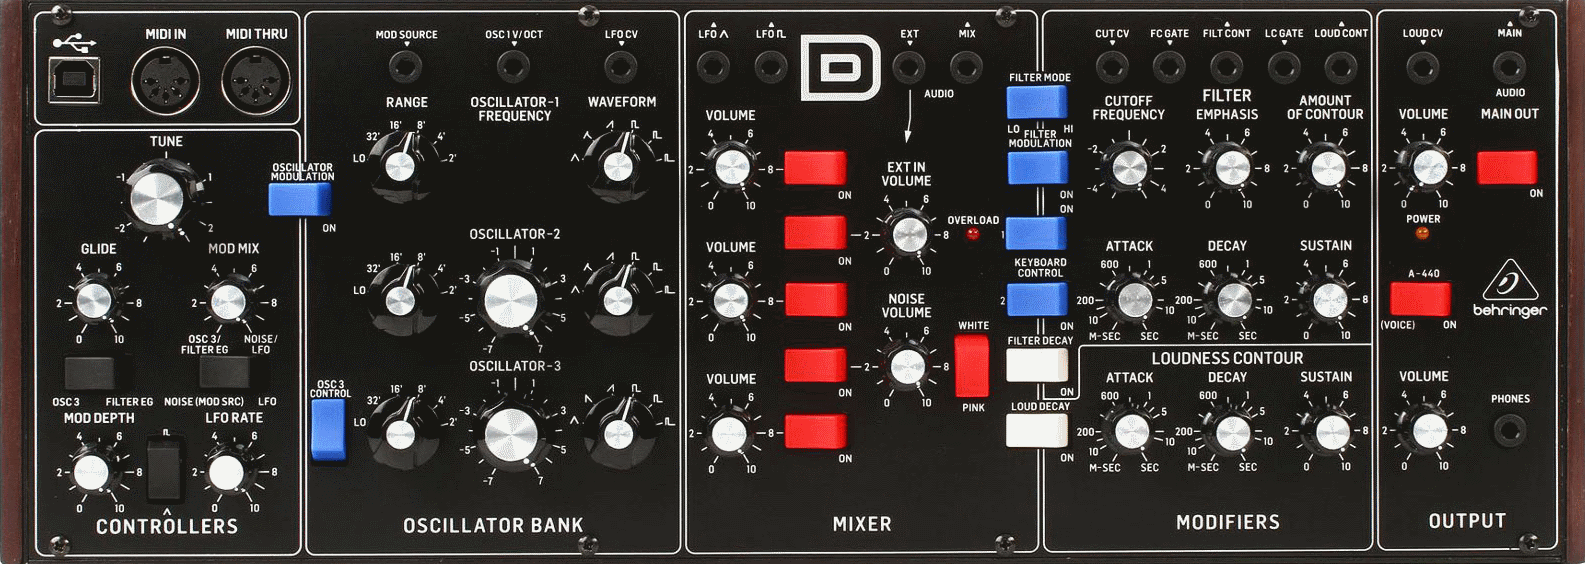
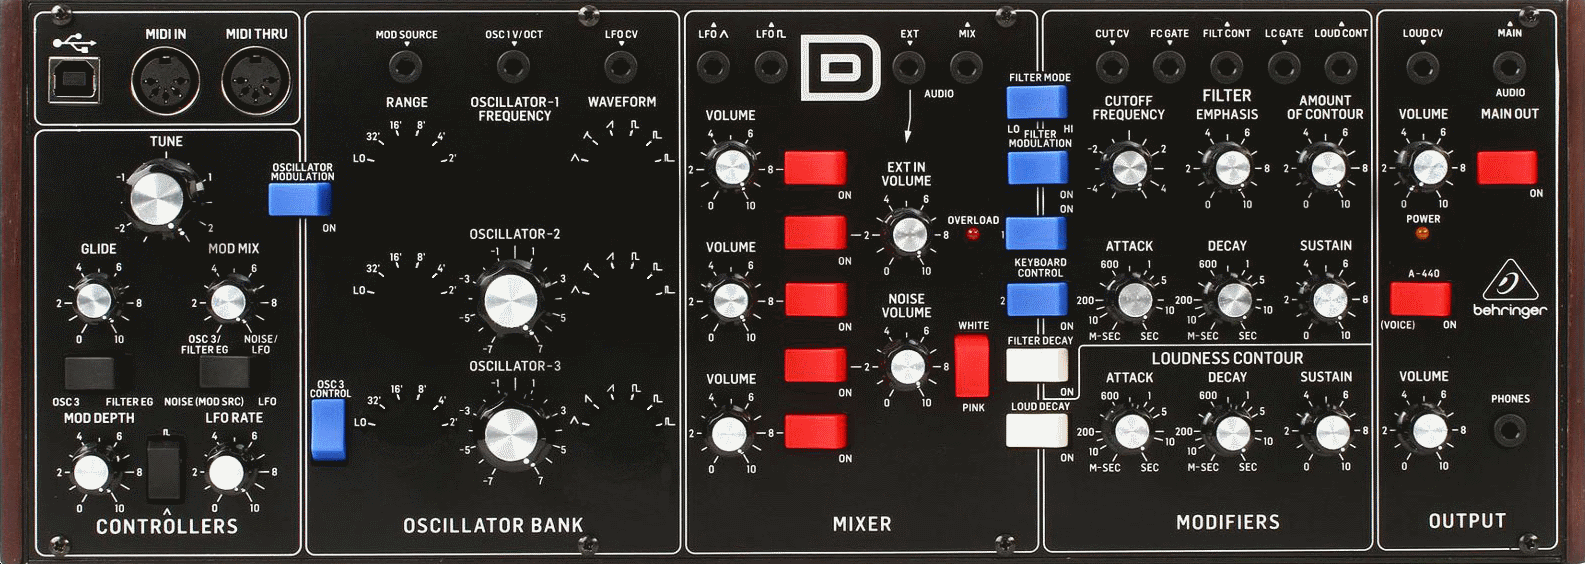
Improve knobs for Behringer Model D

diff --git a/js/behringer-model-d.js b/js/behringer-model-d.js
@@ -27,16 +27,16 @@ const KNOBS = [
   {idx: 3, x: 98, y: 468, type: "small", name: "MOD DEPTH"},
   {idx: 4, x: 234, y: 468, type: "small", name: "LFO RATE"},
 
-  {idx: 5, x: 405, y: 166, type: "medium", name: "OSC1 RANGE"},
-  {idx: 6, x: 403, y: 299, type: "medium", name: "OSC2 RANGE"},
-  {idx: 7, x: 405, y: 432, type: "medium", name: "OSC3 RANGE"},
+  {idx: 5, x: 408, y: 171, type: "medium", name: "OSC1 RANGE"},
+  {idx: 6, x: 408, y: 304, type: "medium", name: "OSC2 RANGE"},
+  {idx: 7, x: 408, y: 436, type: "medium", name: "OSC3 RANGE"},
 
   {idx: 8, x: 514, y: 299, type: "large", name: "OSC2 FREQ"},
   {idx: 9, x: 514, y: 432, type: "large", name: "OSC3 FREQ"},
 
-  {idx: 10, x: 622, y: 166, type: "medium", name: "OSC1 WAVEFORM"},
-  {idx: 11, x: 622, y: 299, type: "medium", name: "OSC2 WAVEFORM"},
-  {idx: 12, x: 622, y: 432, type: "medium", name: "OSC3 WAVEFORM"},
+  {idx: 10, x: 622, y: 171, type: "medium", name: "OSC1 WAVEFORM"},
+  {idx: 11, x: 622, y: 304, type: "medium", name: "OSC2 WAVEFORM"},
+  {idx: 12, x: 622, y: 435, type: "medium", name: "OSC3 WAVEFORM"},
 
   {idx: 13, x: 732, y: 166, type: "small", name: "OSC1 VOLUME"},
   {idx: 14, x: 732, y: 299, type: "small", name: "OSC2 VOLUME"},
@@ -62,7 +62,7 @@ const KNOBS = [
 ]
 const KNOB_TYPES = {
   large: {radius: 55, limit: 304},
-  medium: {radius: 45, limit: 160},
+  medium: {radius: 45, limit: 145},
   small: {radius: 30, limit: 300},
 }
 const TOGGLES = [
@@ -109,13 +109,13 @@ const TOGGLE_HEIGHT = 40
 const initialKnobValues = function() {
   let knobValues = Array(29).fill(150)
   // These range and waveform knobs are actually limited to certain values. Ignore that now...
-  knobValues[5] = 160
-  knobValues[6] = 160
-  knobValues[7] = 160
+  knobValues[5] = 145
+  knobValues[6] = 145
+  knobValues[7] = 145
 
-  knobValues[10] = 160
-  knobValues[11] = 160
-  knobValues[12] = 160
+  knobValues[10] = 145
+  knobValues[11] = 145
+  knobValues[12] = 145
 
   return knobValues
 }
